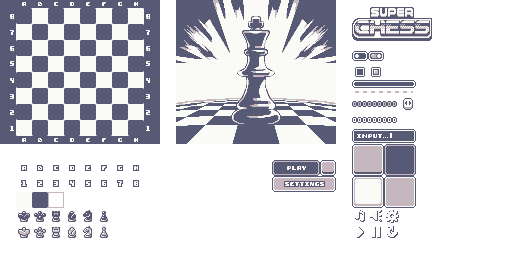
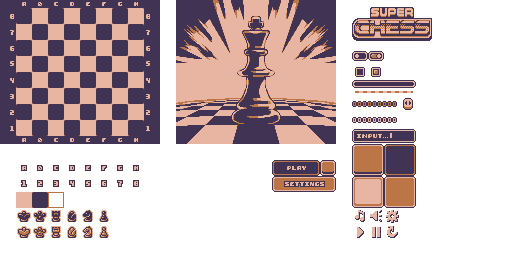
animation + all piece movement
nextup: castling and white->black loop

diff --git a/src/game.c b/src/game.c
@@ -4,9 +4,10 @@
 void check_possible_moves(piece board[8][8], board_pos pos,
                           possible_moves *moves) {
     piece p = board[pos.row][pos.col];
+    int dir = (p.color == White) ? -1 : 1;
     switch (p.type) {
     case PAWN: {
-        int dir = (p.color == White) ? -1 : 1;
+        
         int next_row = pos.row + dir;
         if (next_row >= 0 && next_row < 8 &&
             board[next_row][pos.col].type == EMPTY) {
@@ -31,6 +32,93 @@ void check_possible_moves(piece board[8][8], board_pos pos,
         }
         break;
     }
+    case ROOK: {
+        int dirs[4][2] = {{-1, 0}, {1, 0}, {0, -1}, {0, 1}};
+        for (int d = 0; d < 4; d++) {
+            int dr = dirs[d][0], dc = dirs[d][1];
+            int r = pos.row + dr, c = pos.col + dc;
+            while (r >= 0 && r < 8 && c >= 0 && c < 8) {
+                if (board[r][c].type == EMPTY) {
+                    da_append(*moves, ((Vector2){c, r}));
+                } else {
+                    if (board[r][c].color != p.color)
+                        da_append(*moves, ((Vector2){c, r})); // capture
+                    break; // blocked either way
+                }
+                r += dr;
+                c += dc;
+            }
+        }
+        break;
+    }
+    case BISHOP: {
+        int dirs[4][2] = {{-1, 1}, {1, 1}, {1, -1}, {-1, -1}};
+        for (int d = 0; d < 4; d++) {
+            int dr = dirs[d][0], dc = dirs[d][1];
+            int r = pos.row + dr, c = pos.col + dc;
+            while (r >= 0 && r < 8 && c >= 0 && c < 8) {
+                if (board[r][c].type == EMPTY) {
+                    da_append(*moves, ((Vector2){c, r}));
+                } else {
+                    if (board[r][c].color != p.color)
+                        da_append(*moves, ((Vector2){c, r})); // capture
+                    break; // blocked either way
+                }
+                r += dr;
+                c += dc;
+            }
+        }
+        break;
+    }
+
+    case QUEEN: {
+        int dirs[8][2] = {{-1, 1}, {1, 1}, {1, -1}, {-1, -1}, {-1, 0}, {1, 0}, {0, -1}, {0, 1}};
+        for (int d = 0; d < 8; d++) {
+            int dr = dirs[d][0], dc = dirs[d][1];
+            int r = pos.row + dr, c = pos.col + dc;
+            while (r >= 0 && r < 8 && c >= 0 && c < 8) {
+                if (board[r][c].type == EMPTY) {
+                    da_append(*moves, ((Vector2){c, r}));
+                } else {
+                    if (board[r][c].color != p.color)
+                        da_append(*moves, ((Vector2){c, r})); // capture
+                    break; // blocked either way
+                }
+                r += dr;
+                c += dc;
+            }
+        }
+        break;
+    }
+    case KING: {
+        int dirs[4][2] = {{-1, 0}, {1, 0}, {0, -1}, {0, 1}};
+        for (int d = 0; d < 4; d++) {
+            int dr = dirs[d][0], dc = dirs[d][1];
+            int r = pos.row + dr, c = pos.col + dc;
+            if (r >= 0 && r < 8 && c >= 0 && c < 8 &&
+                board[r][c].type == EMPTY) {
+
+                da_append(*moves, ((Vector2){c, r}));
+            }
+            r += dr;
+            c += dc;
+        }
+        break;
+    }
+    case KNIGHT: {
+        int jumps[8][2] = {{-2, -1}, {-2, 1}, {-1, -2}, {-1, 2},
+                           { 1, -2}, { 1, 2}, { 2, -1}, { 2, 1}};
+        for (int i = 0; i < 8; i++) {
+            int r = pos.row + jumps[i][0];
+            int c = pos.col + jumps[i][1];
+            if (r >= 0 && r < 8 && c >= 0 && c < 8 &&
+                (board[r][c].type == EMPTY || board[r][c].color != p.color)) {
+                da_append(*moves, ((Vector2){c, r}));
+            }
+        }
+        break;
+    }
+
     default:
         break;
     }

diff --git a/src/render.c b/src/render.c
@@ -30,6 +30,44 @@ Rectangle piece_rects[2][7] = {
 
 Rectangle selected_tile_rect = {48, 192, 16, 16};
 
+move_animation current_anim = {0};
+
+void start_move_animation(move_animation *anim, piece p, board_pos src,
+                          board_pos dest) {
+    anim->active = true;
+    anim->animating_piece = p;
+    anim->src = src;
+    anim->dest = dest;
+    anim->progress = 0.0f;
+    anim->duration = 0.18f;
+}
+
+void update_animation(move_animation *anim) {
+    if (!anim->active)
+        return;
+    anim->progress += GetFrameTime() / anim->duration;
+    if (anim->progress >= 1.0f) {
+        anim->progress = 1.0f;
+        anim->active = false;
+    }
+}
+
+void draw_animation(Texture *tex_pattern, move_animation *anim, float scale) {
+    if (!anim->active)
+        return;
+    float ts = 16.0f * scale;
+    float t = anim->progress;
+    // ease-out quadratic
+    float et = 1.0f - (1.0f - t) * (1.0f - t);
+    float cur_x = anim->src.col * ts + (anim->dest.col - anim->src.col) * ts * et;
+    float cur_y = anim->src.row * ts + (anim->dest.row - anim->src.row) * ts * et;
+    Rectangle src_rect =
+        piece_rects[anim->animating_piece.color][anim->animating_piece.type];
+    Rectangle dest_rect = {cur_x, cur_y, ts, ts};
+    DrawTexturePro(*tex_pattern, src_rect, dest_rect, (Vector2){0, 0}, 0.0f,
+                   WHITE);
+}
+
 void draw_selection_highlight(float scale, board_pos *selection) {
     if (selection->row == -1 || selection->col == -1)
         return; // No selection
@@ -43,6 +81,10 @@ void draw_pieces(Texture *tex_pattern, float scale) {
     float ts = 16.0f * scale;
     for (int row = 0; row < 8; row++) {
         for (int col = 0; col < 8; col++) {
+            // While animating, skip dest tile (drawn by draw_animation)
+            if (current_anim.active && row == current_anim.dest.row &&
+                col == current_anim.dest.col)
+                continue;
             piece p = board[row][col];
             if (p.type == EMPTY)
                 continue;
@@ -85,13 +127,13 @@ void draw_board_labels(float tile_size, float scale) {
     for (int c = 0; c < 8; c++) {
         int x =
             (int)(c * ts + ts / 2) - MeasureText(col_names[c], font_size) / 2;
-        DrawText(col_names[c], x, (int)(8 * ts) + 4, font_size, BLACK);
+        DrawText(col_names[c], x, (int)(8 * ts) + 4, font_size, WHITE);
     }
     for (int r = 0; r < 8; r++) {
         int rank = 8 - r;
         const char *label = TextFormat("%d", rank);
         int y = (int)(r * ts + ts / 2) - font_size / 2;
-        DrawText(label, (int)(8 * ts) + 4, y, font_size, BLACK);
+        DrawText(label, (int)(8 * ts) + 4, y, font_size, WHITE);
     }
 }
 

diff --git a/src/main.c b/src/main.c
@@ -39,7 +39,7 @@ int main(void) {
     //
 
     const int tile_size = 16;
-    const float scale = 3.5f;
+    const float scale = 5.0f;
     const int margins = 150;
     const int screenWidth = 1500; // hardcoded for now, should be calculated
                                   // based on tile size and scale
@@ -73,7 +73,7 @@ int main(void) {
         clicked_col = -1;
         convert_mouse_position_to_board_coordinates(
             mouse_position, tile_size * scale, &clicked_row, &clicked_col);
-        if (clicked_row >= 0 && clicked_col >= 0) {
+        if (clicked_row >= 0 && clicked_col >= 0 && !current_anim.active) {
             if (selected.row >= 0 &&
                 board[selected.row][selected.col].type != EMPTY) {
                 if (clicked_row == selected.row &&
@@ -86,8 +86,13 @@ int main(void) {
                     for (size_t i = 0; i < moves.count; i++) {
                         if ((int)moves.pos[i].y == clicked_row &&
                             (int)moves.pos[i].x == clicked_col) {
+                            piece moving_piece =
+                                board[selected.row][selected.col];
                             move_piece(board, selected,
                                        (board_pos){clicked_row, clicked_col});
+                            start_move_animation(
+                                &current_anim, moving_piece, selected,
+                                (board_pos){clicked_row, clicked_col});
                             TraceLog(LOG_INFO, "Moved piece to: %d, %d",
                                      clicked_row, clicked_col);
                             break;
@@ -107,9 +112,11 @@ int main(void) {
             }
         }
         BeginDrawing();
-        ClearBackground(RAYWHITE);
+        ClearBackground((Color){0x40, 0x33, 0x53, 0xFF});
+        update_animation(&current_anim);
         draw_chessboard(tiles, &tex_pattern, scale);
         draw_pieces(&tex_pattern, scale);
+        draw_animation(&tex_pattern, &current_anim, scale);
         draw_board_labels(tile_size, scale);
         draw_selection_highlight(scale, &selected);
         draw_possible_moves(&moves, scale);

diff --git a/src/include/render.h b/src/include/render.h
@@ -10,6 +10,17 @@ typedef struct {
     Rectangle rec_pos_from_texture;
 } tile;
 
+typedef struct {
+    bool active;
+    piece animating_piece;
+    board_pos src;
+    board_pos dest;
+    float progress; // 0.0 to 1.0
+    float duration; // seconds
+} move_animation;
+
+extern move_animation current_anim;
+
 extern Rectangle selected_tile_rect;
 
 extern Rectangle piece_rects[2][7]; // [color][piece_type]
@@ -24,6 +35,11 @@ void initialize_render(const char *texture_path, Texture *tex_pattern,
                        tile *tiles);
 void draw_chessboard(tile *tiles, Texture *tex_pattern, float scale);
 void draw_board_labels(float tile_size, float scale);
+
+void start_move_animation(move_animation *anim, piece p, board_pos src,
+                          board_pos dest);
+void update_animation(move_animation *anim);
+void draw_animation(Texture *tex_pattern, move_animation *anim, float scale);
 
 #define SIZEOF(A) sizeof(A) / sizeof(A[0])
 
